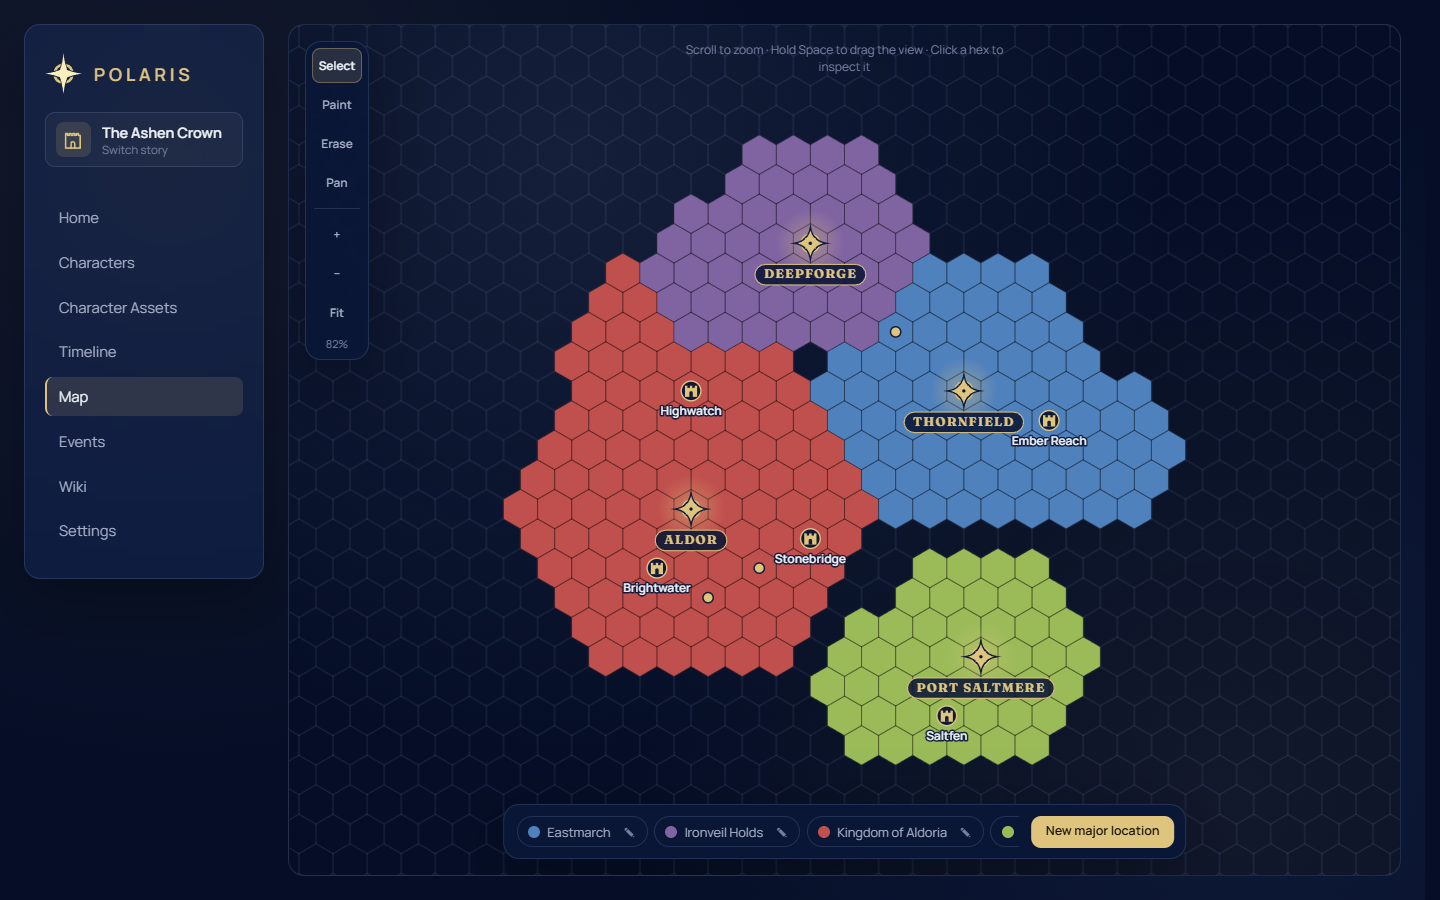
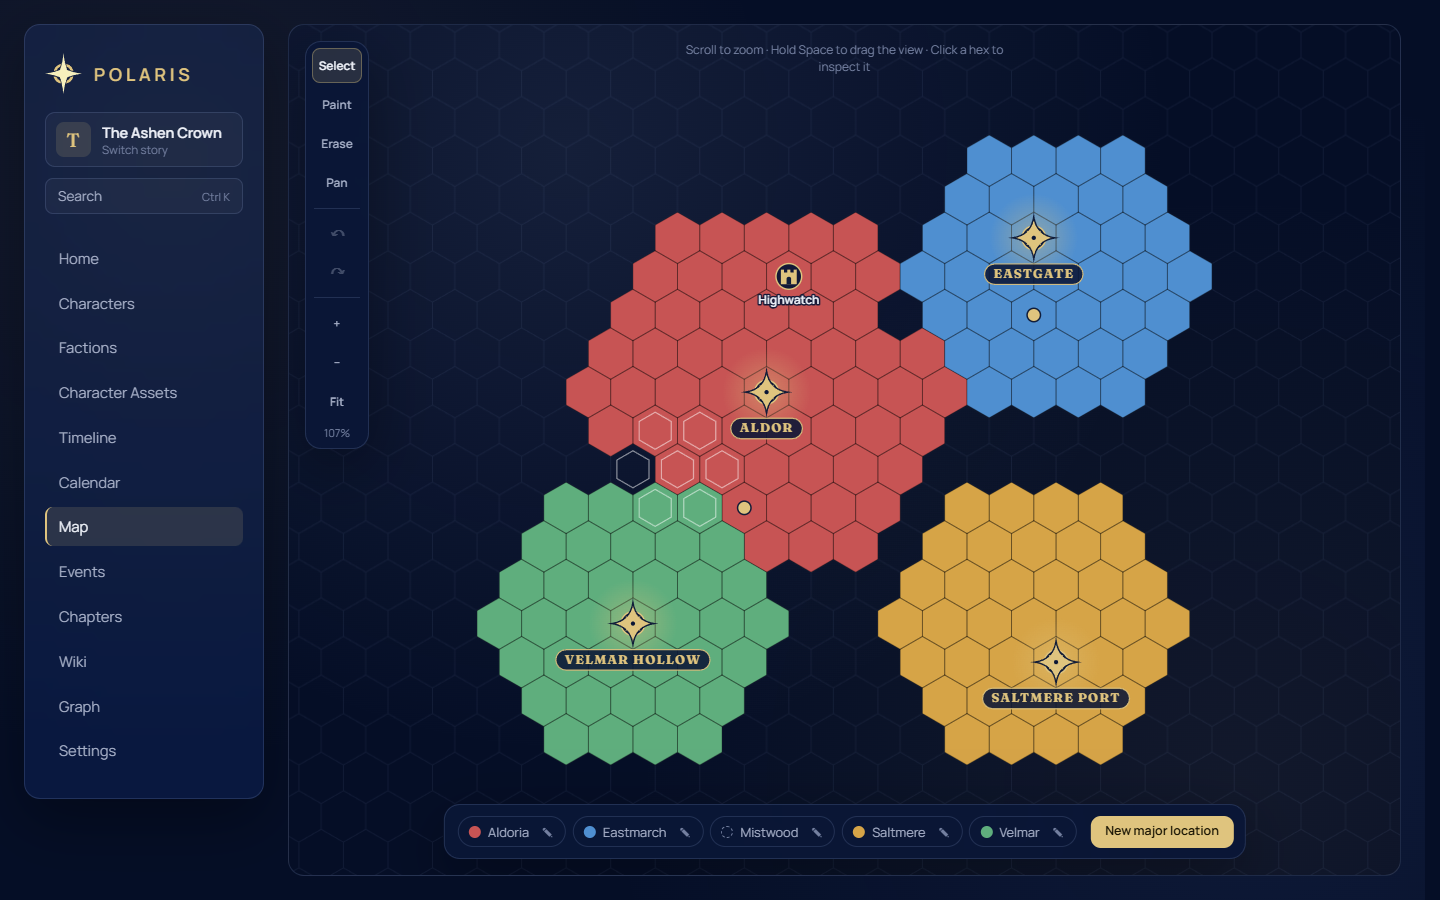
Refresh the README and its screenshots; fix adoption lines in family trees
The README now describes Polaris as a story organizer, with a shorter
feature list grouped by area and six new screenshots of a demo story
(wiki, graph, family tree, timeline, map, character sheet).

Taking them showed two bugs, fixed here: a child with two pairs of
parents (born to one couple, adopted by another) now hangs from each
couple instead of a point between them, and hover previews no longer
leave a space where bold or italic marks were.

diff --git a/frontend/src/views/FamilyTree.vue b/frontend/src/views/FamilyTree.vue
@@ -133,8 +133,12 @@ const cx = (id) => box(id).x + CARD_W / 2
 
 // Parents to children: down from the parents (from the middle of a couple's
 // line), along a bar, and down into each child.
-const connectors = computed(() =>
-  tree.value.families.map((f) => {
+// Two families whose bars would overlap (a child born to one couple and
+// adopted by another, say) get bars at different heights, so each line can
+// be followed.
+const connectors = computed(() => {
+  const placed = [] // { top, from, to, level } of bars already drawn
+  return tree.value.families.map((f) => {
     let ox
     let oy
     const [a, b] = f.parents
@@ -147,13 +151,18 @@ const connectors = computed(() =>
       oy = Math.max(...f.parents.map((p) => box(p).y)) + CARD_H
     }
     const top = Math.min(...f.children.map((c) => box(c).y))
-    const barY = top - 28
     const xs = f.children.map(cx)
-    let d = `M ${ox} ${oy} V ${barY} M ${Math.min(ox, ...xs)} ${barY} H ${Math.max(ox, ...xs)}`
+    const from = Math.min(ox, ...xs)
+    const to = Math.max(ox, ...xs)
+    let level = 0
+    while (placed.some((p) => p.top === top && p.level === level && from <= p.to + 4 && to >= p.from - 4)) level++
+    placed.push({ top, from, to, level })
+    const barY = top - 28 - level * 14
+    let d = `M ${ox} ${oy} V ${barY} M ${from} ${barY} H ${to}`
     for (const c of f.children) d += ` M ${cx(c)} ${barY} V ${box(c).y}`
     return d
-  }),
-)
+  })
+})
 
 const coupleLines = computed(() =>
   tree.value.couples.map((c) => {

diff --git a/frontend/src/familyLayout.js b/frontend/src/familyLayout.js
@@ -217,14 +217,21 @@ export function layoutFamily(people, links, root) {
     c.adjacent = ib >= 0 && Math.abs(ia - ib) === 1
   }
 
-  // Children grouped by their (known) parents.
+  // Children grouped by their (known) parents. A child with more than one
+  // pair of parents (born to one couple, adopted by another) hangs from
+  // each couple: partners among a child's parents pair up, the rest stand
+  // alone.
   const families = new Map()
   for (const p of people) {
-    const ps = [...parents.get(p.id)].sort((a, b) => a - b)
-    if (!ps.length) continue
-    const key = ps.join(',')
-    if (!families.has(key)) families.set(key, { parents: ps, children: [] })
-    families.get(key).children.push(p.id)
+    const left = [...parents.get(p.id)].sort((a, b) => a - b)
+    while (left.length) {
+      const a = left.shift()
+      const i = left.findIndex((b) => partners.get(a).has(b))
+      const group = i >= 0 ? [a, left.splice(i, 1)[0]] : [a]
+      const key = group.join(',')
+      if (!families.has(key)) families.set(key, { parents: group, children: [] })
+      families.get(key).children.push(p.id)
+    }
   }
   for (const f of families.values()) f.children.sort((a, b) => pos.get(a).x - pos.get(b).x)
 

diff --git a/frontend/src/articlePreview.js b/frontend/src/articlePreview.js
@@ -23,7 +23,10 @@ export function plainText(md) {
     .replace(/\[([^\]]+)\]\([^)]*\)/g, '$1')
     .replace(/^\s{0,3}(#{1,6}|>|[-*+]|\d+[.)])\s+/gm, '')
     .replace(/^\s*\|?\s*:?-{2,}.*$/gm, ' ')
-    .replace(/[|*_~`]+/g, ' ')
+    .replace(/\|/g, ' ')
+    // Emphasis marks go; an underscore inside a word (snake_case) stays.
+    .replace(/(\*\*|~~|[*`])(?=\S)|(?<=\S)(\*\*|~~|[*`])/g, '')
+    .replace(/(?<![A-Za-z0-9])_+|_+(?![A-Za-z0-9])/g, '')
     .replace(/\s+/g, ' ')
     .trim()
 }

diff --git a/README.md b/README.md
@@ -1,10 +1,10 @@
 # Polaris
 
-Polaris is a self-hosted campaign and character tracker for writers, game
-masters and worldbuilders. It keeps everything about a story in one place
-that you own: characters and how they change over time, their stats, gear and
-spells, a hex map, a custom calendar, events, a timeline and a wiki that
-writes itself from all of it.
+Polaris is a self-hosted organizer for writing stories. It keeps everything
+about a story in one place that you own: characters and how they change over
+the chapters, who they are to each other, the map, the calendar and history
+of the world, and a wiki that writes itself from all of it. It grew out of
+writing LitRPG, so characters also have levels, stats, gear and spells.
 
 Polaris is a single Go program with the web interface built in. Each story
 has its own SQLite database, so it runs comfortably on a small home server.
@@ -15,68 +15,38 @@ has its own SQLite database, so it runs comfortably on a small home server.
 
 ## Features
 
-- **Characters**: tags, version history (compare any two versions side by side),
-  alive / missing / dead status, automatically computed stats, a paper-doll
-  gear tab, a spell list and a printable sheet.
-- **Relations and factions**: who is whose parent, mentor, rival and so on,
-  read correctly from both sides, starting and ending at a chapter or date so
-  each version of a character shows the relations of its own time. Every
-  kingdom on the map is a faction too. Factions (guilds,
-  orders, houses) can sit inside one another, have a headquarters on the map
-  and members with ranks.
-- **Character Assets**: classes, subclasses, specializations, races, body
-  types, gear and spells, each of which can grant stat bonuses.
-- **Map**: a paintable hex map with major locations you can inspect, brush
-  sizes, and undo.
-- **Wiki**: every character, location, faction, event, class, race, spell and
-  piece of gear automatically gets an article, so there are no pages to create. Its
-  infobox and related lists are read live from the rest of your story, and you
-  add the lore on top: markdown boxes (history, personality, geography and so
-  on), your own sections and infobox rows, `[[links]]` between articles and a
-  "What links here" list. Delete something and its article goes with it.
-  Free-form lore articles (gods, history, magic, languages…) can be added
-  too, with their own picture and sections, and dates that put them on the
-  timeline. Hovering a link to an article shows a preview of it, and a graph
-  view shows every article and how they all connect.
-- **Family trees**: each character's parents, children, siblings and
-  partners drawn as a tree, and a relationship web on the graph.
-- **Galleries**: any wiki article can hold captioned pictures, viewed full
-  size one after another.
-- **Calendar**: every event, birth and founding, a month at a time in the
-  story's own calendar.
-- **Calendar, events and timeline**: define your own calendar (months per year,
-  days per month), link events with tags, and view them on a timeline drawn to
-  scale, filtered by person or place.
-- **Chapters**: chapters grouped into volumes, each with your notes and the
-  events and character changes that happen in it.
-- **Search**: Ctrl+K finds any character, place, faction, event, asset or
-  chapter.
-- **Multiple stories**: each story is fully separate and can be exported to
-  and imported from a `.zip` file. The story list shows when each was last
-  exported.
-- **Languages**: English, Português (Brasil), Español (España) and Español
-  (Latinoamérica). Only the interface is translated, never your own content.
-- **Themes**: five colour themes, chosen per device. Works on phones too.
+- **Characters** change over the story in versions (renames, new classes,
+  a new status), which you can compare side by side. Each has tags, computed
+  stats, a gear paper-doll, a spell list and a printable sheet.
+- **Relations and families**: parents, partners, mentors and rivals, each
+  holding from one chapter or date to another, so every version shows the
+  relations of its own time. Family trees are drawn from them. Factions have
+  ranks and can nest, and every kingdom on the map is a faction too.
+- **World**: a paintable hex map of kingdoms, regions, cities and capitals,
+  and Character Assets (classes, races, gear, spells…) that grant stat
+  bonuses.
+- **Time**: your own calendar (months and days), events tied to places,
+  people and chapters, a timeline drawn to scale, a month-by-month calendar
+  view, and chapters grouped into volumes.
+- **Wiki**: every character, place, faction, event and asset already has an
+  article, built live from the story. You add the lore in Markdown with a
+  formatting toolbar, link articles with `[[…]]` (a picker finds them for
+  you) and see a preview when hovering a link. Free-form articles cover
+  gods, history or magic; galleries hold pictures; a character's article
+  has a tab per version; and a graph shows how everything connects.
+- **Everyday**: Ctrl+K search, any number of separate stories with `.zip`
+  export and import, English, Português (BR) and Español (ES and Latin
+  America), five colour themes, and a layout that works on phones.
 
 ## Screenshots
 
-The screenshots use mock data.
+Made with a demo story of invented data.
 
-**Map**: paint kingdoms on the hex map and place towns and landmarks.
-
-![The hex map with four painted kingdoms](docs/screenshots/map.png)
-
-**Character gear**: a paper-doll of equipped gear, with weight and the stat
-bonuses it grants.
-
-![A character's gear tab](docs/screenshots/gear.png)
-
-**Wiki**: an article built from the map and your own text, with an infobox,
-contents and links to other articles.
-
-![A wiki article for a kingdom](docs/screenshots/wiki.png)
-
-![The wiki index](docs/screenshots/wiki-index.png)
+| | |
+|---|---|
+| ![A character's wiki article](docs/screenshots/wiki.png) **Wiki**: an article built from the story, with your text, version tabs and a grouped infobox. | ![The graph of the wiki](docs/screenshots/graph.png) **Graph**: every article and connection; hovering a dot lights up its neighbours. |
+| ![A family tree](docs/screenshots/family.png) **Family tree**: born to one couple, adopted by another. | ![The timeline](docs/screenshots/timeline.png) **Timeline**: one character's life, long gaps coiled up. |
+| ![The hex map](docs/screenshots/map.png) **Map**: kingdoms, regions, cities and capitals. | ![A character sheet](docs/screenshots/character.png) **Character sheet**: stats computed from class, race and gear. |
 
 ## Security
 
